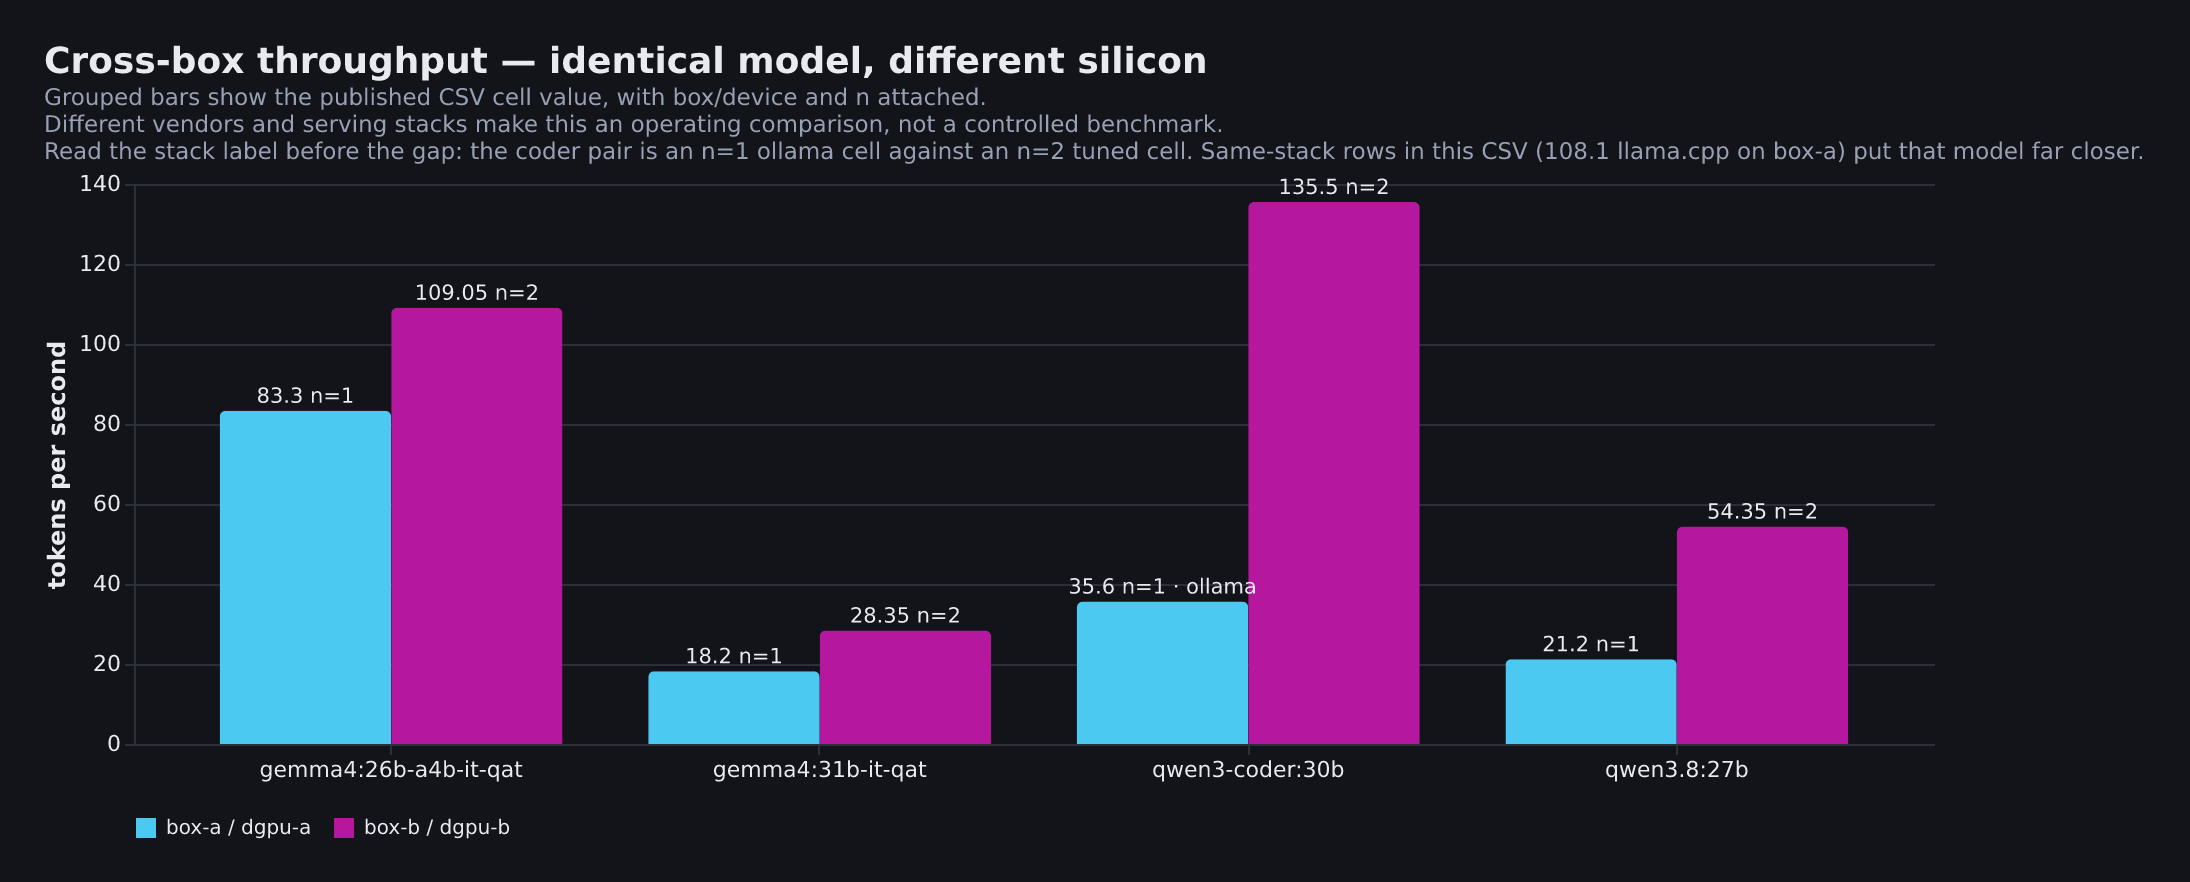
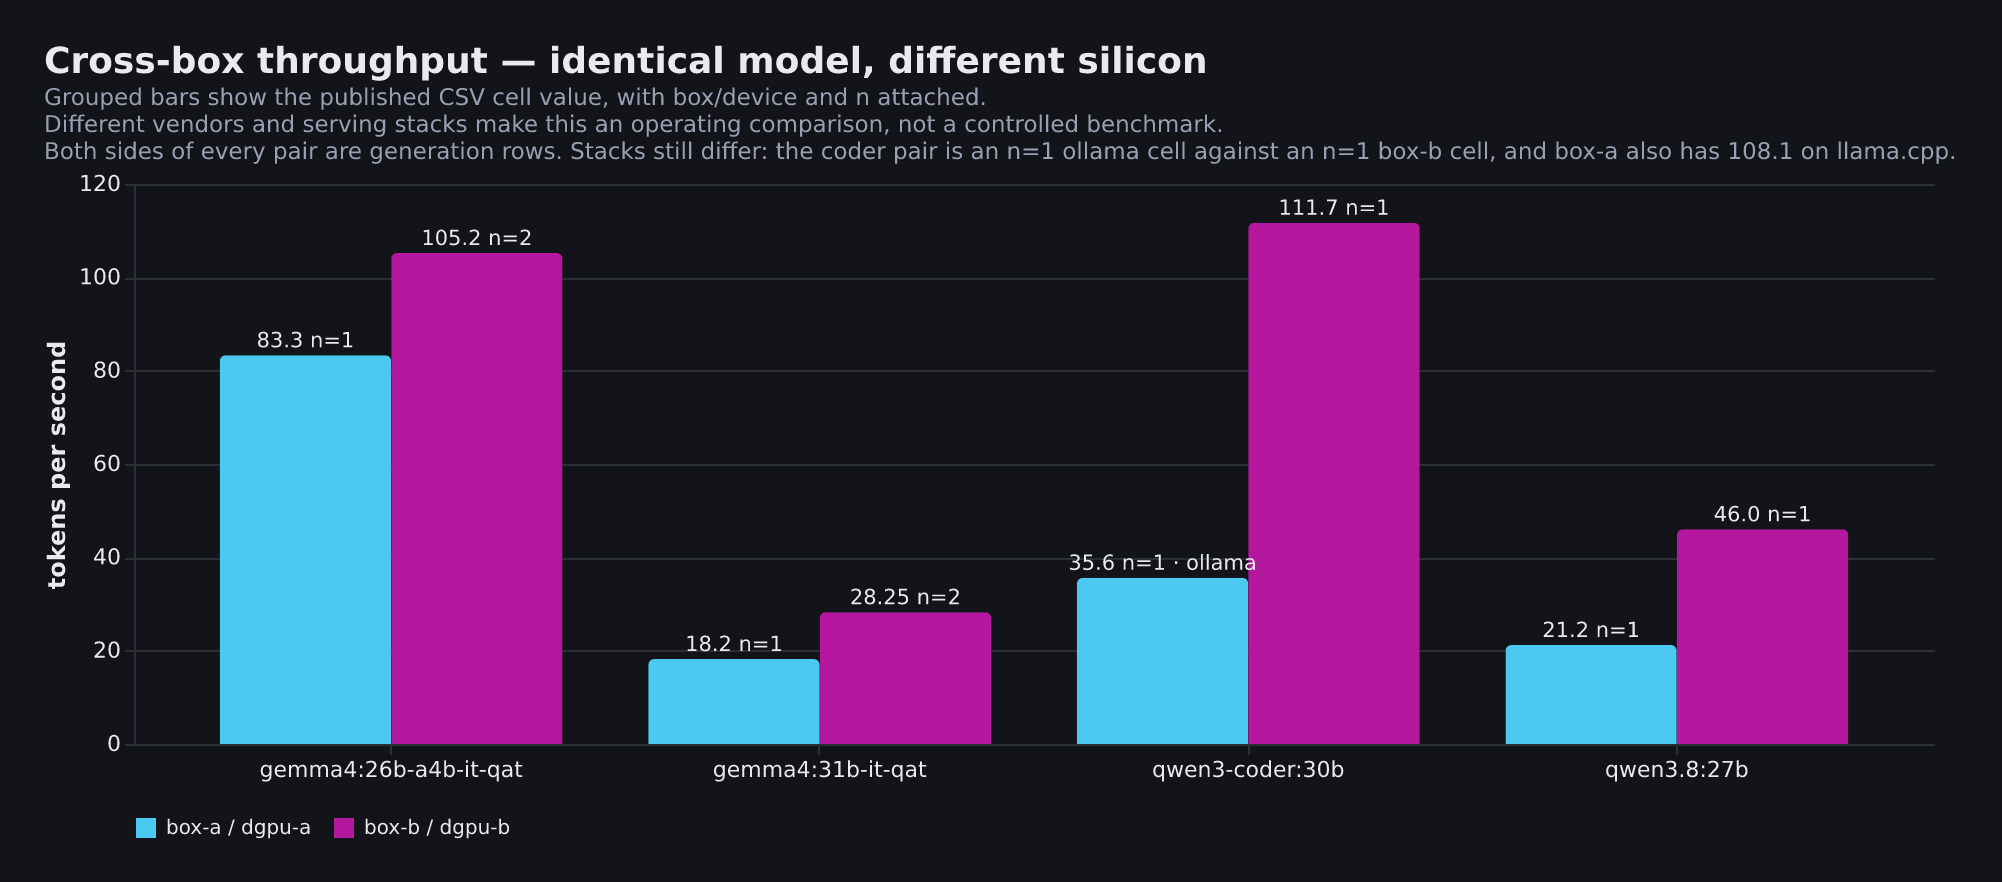
audit round 2: the cross-box chart was comparing generation against decode
A second, independent audit pass found what the first missed on the same chart: every
'identical model, different silicon' pair put a box-a metric=generation cell beside a
box-b metric=decode cell, so the picture was generation-vs-decode wearing a silicon
label. Box-b now uses its own generation rows (105.2, 28.25, 111.7, 46.0) and the
subtitle states that both sides match, keeping the stack caveat.

Also corrected from the same pass:
- README claimed every number in the charts was measured through box-a's PCIe links;
  two panels carry box-b values from a different machine entirely.
- The guard suite is 170 tests, not 165 — my own release-1 commit added five and left
  two documents stale the same day.
- ACTIONABLE_ADDENDUM told adopters the fourth contract surface is guard/teeth_prover.py;
  the guard's declared surfaces are validator, addendum, rollup, and the dispatch
  preamble (stage_video_research.py).
- Values derived by dividing MiB by 1024 are GiB, published as GB.
- The GLM base-tag bar carried a quant and serving stack its CSV row leaves blank.
- 'Best recorded row per model' now says what it actually is: the best generation or
  decode row for the 19 of 20 tags that have one.

Delegated-to: codex-research (convergent data-integrity audit) + grok (divergent pass)

diff --git a/bench/make_charts.py b/bench/make_charts.py
@@ -15,7 +15,7 @@ peak = [
     ("qwen3.6:35b-a3b",       114.43, "qwen",    "box-a · both-dgpu · Q4_K_M · n=1"),
     ("qwen3-coder:30b",       135.5, "qwen",     "box-b · dgpu-b · quant unknown · n=2"),
     ("gemma4:26b-a4b-it-qat", 109.05, "gemma",   "box-b · dgpu-b · q4_0-qat · n=2"),
-    ("GLM-4.7-Flash",         105.0, "glm",      "18 GB · Q4_K_M · llama-server · n=1"),
+    ("GLM-4.7-Flash",         105.0, "glm",      "18 GB · quant unrecorded · vLLM/endpoint probe · n=1"),
     ("GLM-4.7-Flash-GGUF",    105.0, "glm",      "box-a · both-dgpu · quant unknown · n=1"),
     ("Ornith-1.0-9B",          67.0, "ornith",   "5.6 GB · Q4_K_M · 9B dense · single run"),
     ("qwen3.8:27b-devicepinned", 56.4, "qwen",   "box-b · dgpu-b · device-pinned build · n=1"),
@@ -158,7 +158,7 @@ p1_bars = {
 }
 panel1 = {
     "title": {"text": "Local model throughput — two-box operating log",
-              "subtitle": ["Best recorded row per model. Mixed serving stacks and boxes are directional operating data, not a controlled cross-vendor benchmark.",
+              "subtitle": ["Best recorded generation/decode row per model that has one (19 of 20 tags; one is prefill-only). Mixed serving stacks and boxes are directional operating data, not a controlled cross-vendor benchmark.",
                            "Each row names the GPU that measurement ran on. Placement is a property of the run, not the model:",
                            "ollama packs by free VRAM at load time, so a model that fits one card may still span two."],
               "anchor": "start", "color": FG, "fontSize": 19, "subtitleColor": MUTED,
@@ -223,7 +223,7 @@ panel3 = {
                  "yOffset": {"field": "kind"}},
     "layer": [
         {"mark": {"type": "bar", "height": 20},
-         "encoding": {"x": {"field": "gb", "type": "quantitative", "title": "gigabytes",
+         "encoding": {"x": {"field": "gb", "type": "quantitative", "title": "gibibytes",
                             "scale": {"domain": [0, 32]}, "axis": {"tickCount": 8}},
                       "color": {"field": "kind", "type": "nominal",
                                 "scale": {"domain": ["weights on disk", "VRAM occupied"],
@@ -236,21 +236,24 @@ panel3 = {
 }
 
 # ---------------------------------------------------------------- new two-box panels
+# ★ Every pair here must compare the SAME metric. It did not: the box-a cells are
+# metric=generation while the box-b cells were metric=decode, so a "different silicon"
+# picture was really generation-vs-decode. Box-b now uses its generation rows.
 p4 = [
     {"model": "gemma4:26b-a4b-it-qat", "side": "box-a / dgpu-a", "tps": 83.3, "label": "83.3  n=1"},
-    {"model": "gemma4:26b-a4b-it-qat", "side": "box-b / dgpu-b", "tps": 109.05, "label": "109.05  n=2"},
+    {"model": "gemma4:26b-a4b-it-qat", "side": "box-b / dgpu-b", "tps": 105.2, "label": "105.2  n=2"},
     {"model": "gemma4:31b-it-qat", "side": "box-a / dgpu-a", "tps": 18.2, "label": "18.2  n=1"},
-    {"model": "gemma4:31b-it-qat", "side": "box-b / dgpu-b", "tps": 28.35, "label": "28.35  n=2"},
+    {"model": "gemma4:31b-it-qat", "side": "box-b / dgpu-b", "tps": 28.25, "label": "28.25  n=2"},
     {"model": "qwen3-coder:30b", "side": "box-a / dgpu-a", "tps": 35.6, "label": "35.6  n=1 · ollama"},
-    {"model": "qwen3-coder:30b", "side": "box-b / dgpu-b", "tps": 135.5, "label": "135.5  n=2"},
+    {"model": "qwen3-coder:30b", "side": "box-b / dgpu-b", "tps": 111.7, "label": "111.7  n=1"},
     {"model": "qwen3.8:27b", "side": "box-a / dgpu-a", "tps": 21.2, "label": "21.2  n=1"},
-    {"model": "qwen3.8:27b", "side": "box-b / dgpu-b", "tps": 54.35, "label": "54.35  n=2"},
+    {"model": "qwen3.8:27b", "side": "box-b / dgpu-b", "tps": 46.0, "label": "46.0  n=1"},
 ]
 panel4 = {
     "title": {"text": "Cross-box throughput — identical model, different silicon",
               "subtitle": ["Grouped bars show the published CSV cell value, with box/device and n attached.",
                            "Different vendors and serving stacks make this an operating comparison, not a controlled benchmark.",
-                           "Read the stack label before the gap: the coder pair is an n=1 ollama cell against an n=2 tuned cell. Same-stack rows in this CSV (108.1 llama.cpp on box-a) put that model far closer."],
+                           "Both sides of every pair are generation rows. Stacks still differ: the coder pair is an n=1 ollama cell against an n=1 box-b cell, and box-a also has 108.1 on llama.cpp."],
               "anchor": "start", "color": FG, "fontSize": 18, "subtitleColor": MUTED, "subtitleFontSize": 11.5},
     "width": 900, "height": 280, "data": {"values": p4},
     "encoding": {"x": {"field": "model", "type": "nominal", "title": None, "axis": {"labelAngle": 0, "labelLimit": 260, "labelFontSize": 11}}, "xOffset": {"field": "side"}},

diff --git a/README.md b/README.md
@@ -50,7 +50,7 @@ another machine). The commit history tells that story.
 | `skills/` | **24 generalized agent-discipline procedures** — evaluation integrity, model routing (the living-table method), the local-lane build loop, multi-agent code workflow, research dispatch/verification, memory ops, brain bookkeeping, protected-function guards, blocked-page retrieval, and more. Each encodes failure stories from real operation. The portable start-list is in [`adopt/20_skills.md`](adopt/20_skills.md); you are not expected to install 24. |
 | `templates/` | Copyable dispatch, honesty, pinned-environment, and research-artifact patterns. Templates are adoption patterns, not automatic enforcement. |
 | `_tools/` | The export pipeline's own gates — provenance wall-checker, secrets/personal-data scanner, and a **ref gate**, all mutation-proven (`--self-test`). The first two ask "is this tree safe to publish?"; the third asks the question they structurally cannot: **"what would a push actually publish?"** A history rewrite is only true of the branch you rewrote — this repo's own rewrite left a clean `main` beside two leftover refs still carrying the trailers and build artifacts the rewrite removed, one `push --all` away from being republished. Content gates scan a worktree; pushes carry refs. |
-| `guard/` + pipeline surfaces | **The drift-guard core** — teeth-prover (every guard proven able to fail), contract-agreement across four vocabulary surfaces, 165 hermetic unit gates, and a sandboxing mutation harness that fail-closes without its measurement corpus. `2 = UNMEASURED` dominates `1 = violation` throughout. |
+| `guard/` + pipeline surfaces | **The drift-guard core** — teeth-prover (every guard proven able to fail), contract-agreement across four vocabulary surfaces, 170 hermetic unit gates, and a sandboxing mutation harness that fail-closes without its measurement corpus. `2 = UNMEASURED` dominates `1 = violation` throughout. |
 | `specs/` | The multi-agent **driver-lock protocol**, the **curation-loop architecture**, the verified-system-map pattern, and the [research-team](specs/research-team-protocol.md) and [rigor-spectrum](specs/rigor-spectrum.md) guides. |
 | `bench/` | **The two-box throughput operating log** — 55 measurements over 20 model tags, with sample sizes and device labels attached. See below. |
 
@@ -140,20 +140,21 @@ rather than a slope — a model either fits or it doesn't:
   Ornith-9B (5.6 GB), gemma4:12b (7.6 GB) and deepseek-r1:14b (9.0 GB) all fit comfortably, with
   room left for KV cache. **This is the honest minimum** — most of the useful lanes live here.
 - **The second card buys the 30–35B tier.** qwen3.6:35b-a3b is 23 GB of weights and occupies
-  **25.1 GB** once loaded, so it spans both cards — directly confirmed by loading it: Ornith-35B
+  **25.1 GiB** once loaded, so it spans both cards — directly confirmed by loading it: Ornith-35B
   sits at 11839 / 11323 MiB and GLM-4.7-Flash at 11447 / 10789 MiB, both across the pair, because
   neither fits in one 16 GiB card at all. Ornith-35B and qwen3-coder:30b are the same
   story. On decode those two-card rows land at ~105–115 tok/s (the higher figures that used to sit here were prompt-processing, not decode).
 - **Budget for runtime overhead, not just weights** — it does not scale with model size. See the
-  third chart: one 9 GB model occupies 17 GB loaded.
+  third chart: one 9 GB model occupies 17.0 GiB loaded, summed across both cards.
 - **CPU is not the bottleneck** for GPU-resident inference; it matters for loading and for the
   orchestration around the models. System RAM matters more than core count — 32 GB is adequate but
   not generous once several services and a browser are running alongside.
 - Model weights are large. Hundreds of GB of models and working state on the internal NVMe here (not inventoried in this export).
 - **Neither the platform nor the PCIe links need to be top-shelf.** This is an AM4 board (MSI B550
   Tomahawk Max) feeding one card at **PCIe 4.0 x8** and the other at **PCIe 3.0 x4**, with the
-  deliberately mismatched DRAM above settling at 2933 MT/s. Every number in the charts was measured
-  through exactly those links. Once weights are resident, decode traffic barely touches the bus —
+  deliberately mismatched DRAM above settling at 2933 MT/s. Every **box-a** number in the charts was measured
+  through exactly those links; the cross-box and device-split panels also carry box-b values, which
+  run on that machine's own unified-memory path. Once weights are resident, decode traffic barely touches the bus —
   the choked links show up as slower model *loads*, not slower *inference* — and even the models
   that span both cards hit their published rates across a 3.0 x4 link. Mismatched, mainstream,
   lane-starved hardware is sufficient; the VRAM cliff above is the only spec that gates anything.
@@ -280,7 +281,7 @@ flowchart LR
     S([run_guards.sh]) --> T1["1. teeth_prover <br/>plant defects, expect red"]
     T1 -->|HAS_TEETH| T2["2. contract_agreement <br/>four surfaces, one vocabulary"]
     T1 -->|VACUOUS / OVERBROAD| X1["STOP - a guard that cannot fail <br/>certifies nothing below it"]
-    T2 --> T3["3. unit gates <br/>165 hermetic tests"]
+    T2 --> T3["3. unit gates <br/>170 hermetic tests"]
     T3 --> T4[4. leg liveness]
     T4 -->|probed| OK([0 clean])
     T4 -->|dry-run| UM(["2 UNMEASURED <br/>louder than a violation"])

diff --git a/ACTIONABLE_ADDENDUM.md b/ACTIONABLE_ADDENDUM.md
@@ -45,7 +45,7 @@ memory architecture, wiki-links, hygiene/lint, retrieval)
 
 > **Adapt these buckets.** `Flagship-App` and `Local-Models` are PLACEHOLDERS — rename them to your own
 > projects. The vocabulary is enforced across four surfaces by the contract-agreement guard, so change it
-> in ALL of: this file, `check_leg_contract.py`, `actionable_rollup.py`, and `guard/teeth_prover.py`
+> in ALL of: this file, `check_leg_contract.py`, `actionable_rollup.py`, and `stage_video_research.py` (the dispatch preamble)
 > (the guard tests will fail on any surface you miss — that is the guard doing its job).
 
 **The six buckets MATCH the six `RELEVANCE:` projects above, deliberately.** If you rate `Memory = HIGH`,

diff --git a/guard/README.md b/guard/README.md
@@ -18,7 +18,7 @@ staleness check could never fire. That defect is why the dry run now returns `2`
 |---|---|---|
 | Teeth-prover | `python3 guard/teeth_prover.py` | 10 planted mutations; every guard proves it can fail |
 | Contract agreement | `python3 guard/contract_agreement.py` | all four vocabulary surfaces agree (validator · addendum · rollup · preamble) |
-| Guard unit gates | `pytest guard/tests/ -q` | 165 tests, hermetic |
+| Guard unit gates | `pytest guard/tests/ -q` | 170 tests, hermetic |
 | Full runner | `guard/run_guards.sh` | the above in order; leg-liveness dry-run returns `2 = UNMEASURED` by design |
 
 ## What fail-closes without private data — deliberately
